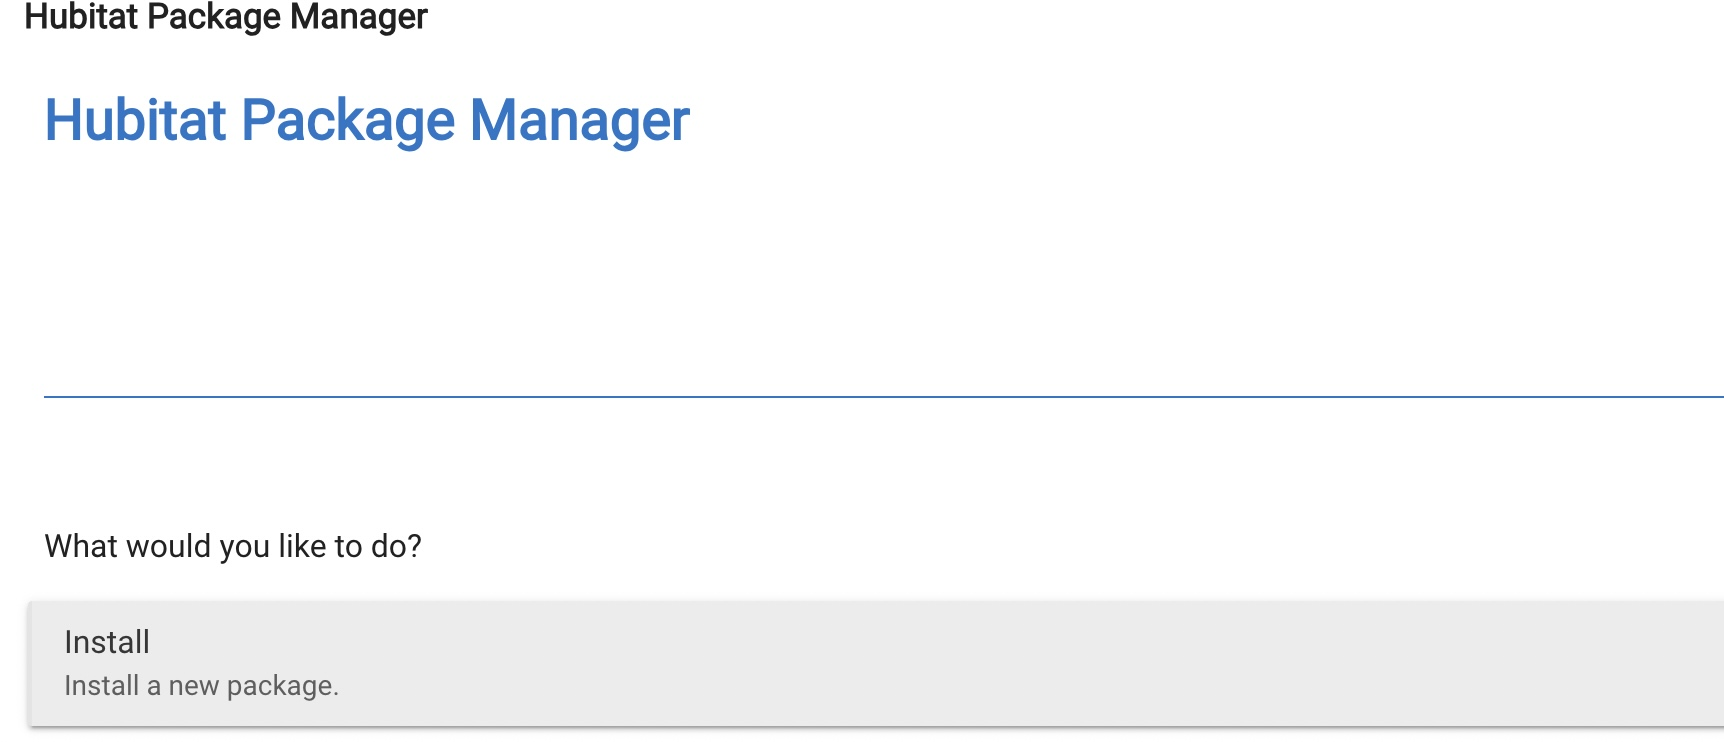
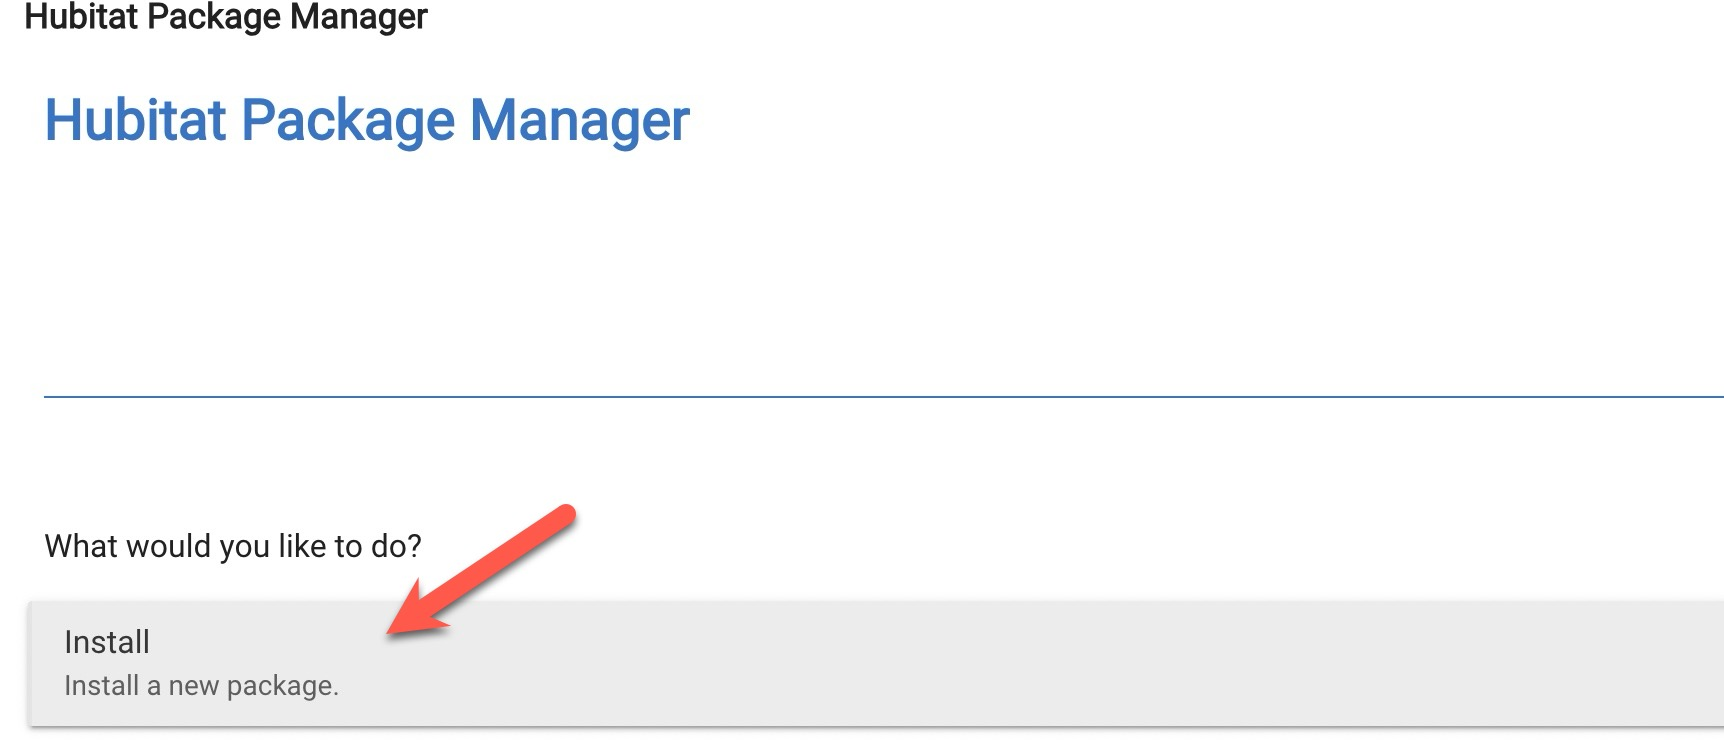
Version 1.0

Changed region(s): [[0.2152, 0.6819, 0.3382, 0.8679]]

diff --git a/README.md b/README.md
@@ -11,11 +11,18 @@
 ## Architecture Overview
 
 ```mermaid
-flowchart LR
-    HE["Hubitat Elevation<br/>(Daiken Split Manager App)"] --->|"HTTP POST<br/>/dsiot/multireq<br/>(Local LAN - Port 80)"| DK["Daikin Split Wi-Fi Adapter<br/>(DGC Protocol)"]
+flowchart TD
+    HE["Hubitat Elevation<br/>(Daiken Split Manager App)"] 
+    HE --> PS["Dynamic Active / Idle Polling"]
+    PS --> MD{"Valid Hubitat Mode?"}
+    MD -->|Yes| SH[Continue]
+    MD -->|No| ST([Stop])
+    SH --->|"HTTP POST<br/>/dsiot/multireq<br/>(Local LAN - Port 80)"| DK["Daikin Split Wi-Fi Adapter<br/>(DGC Protocol)"]
     DK --->|"JSON State Tree<br/>(rsc: 2000)"| HE
     HE --> CD["Daiken Split System<br/>(Child Thermostat Device)"]
     CD --> RM["Rule Machine /<br/>Dashboards"]
+
+    
 ```
 ---
 
@@ -79,7 +86,7 @@ curl -s -X POST "[http://10.0.0.136/dsiot/multireq](http://10.0.0.136/dsiot/mult
 
 ## 2. Installation via Hubitat Package Manager (HPM)
 
-<img src="images/hpm-install.jpg" alt="Hubitat Package Manager Install" width="600" height="400">
+<img src="images/hpm-install.jpg" alt="Hubitat Package Manager Install" height="400">
 
 
 ### Option A: Install by Searching HPM (Recommended)
